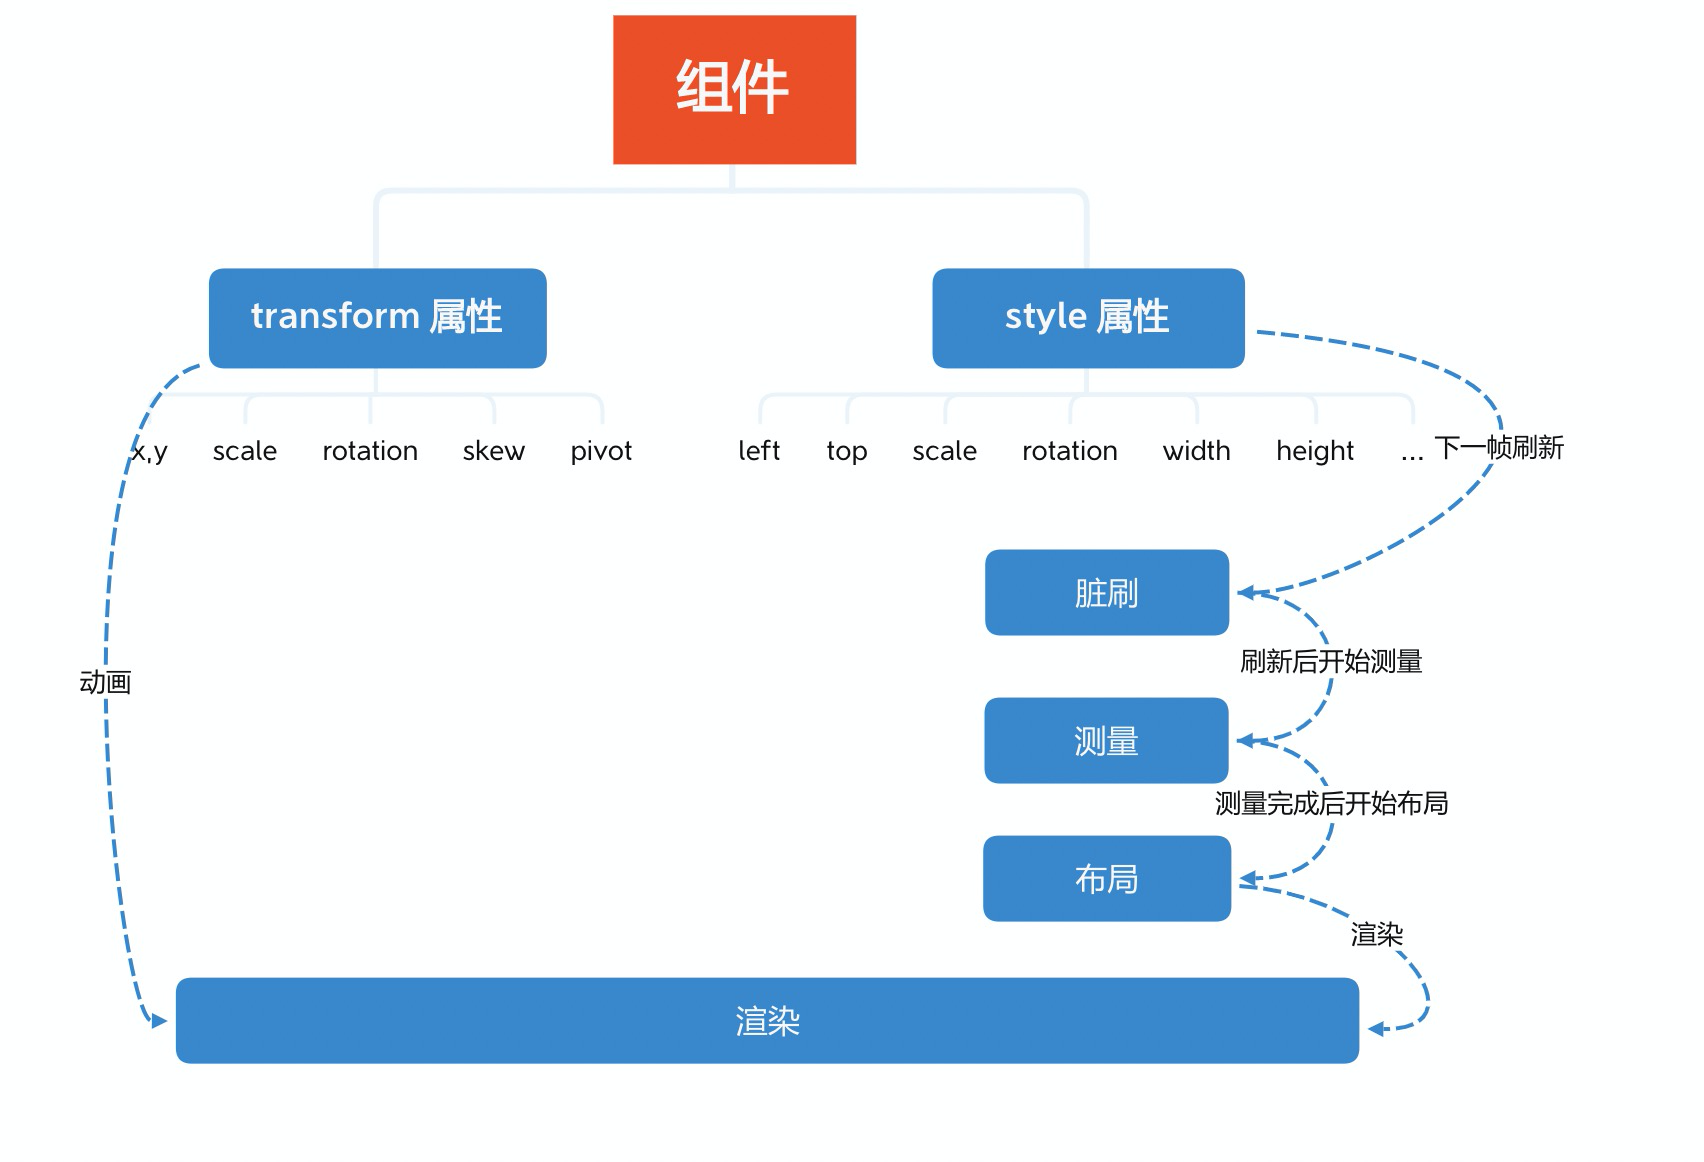
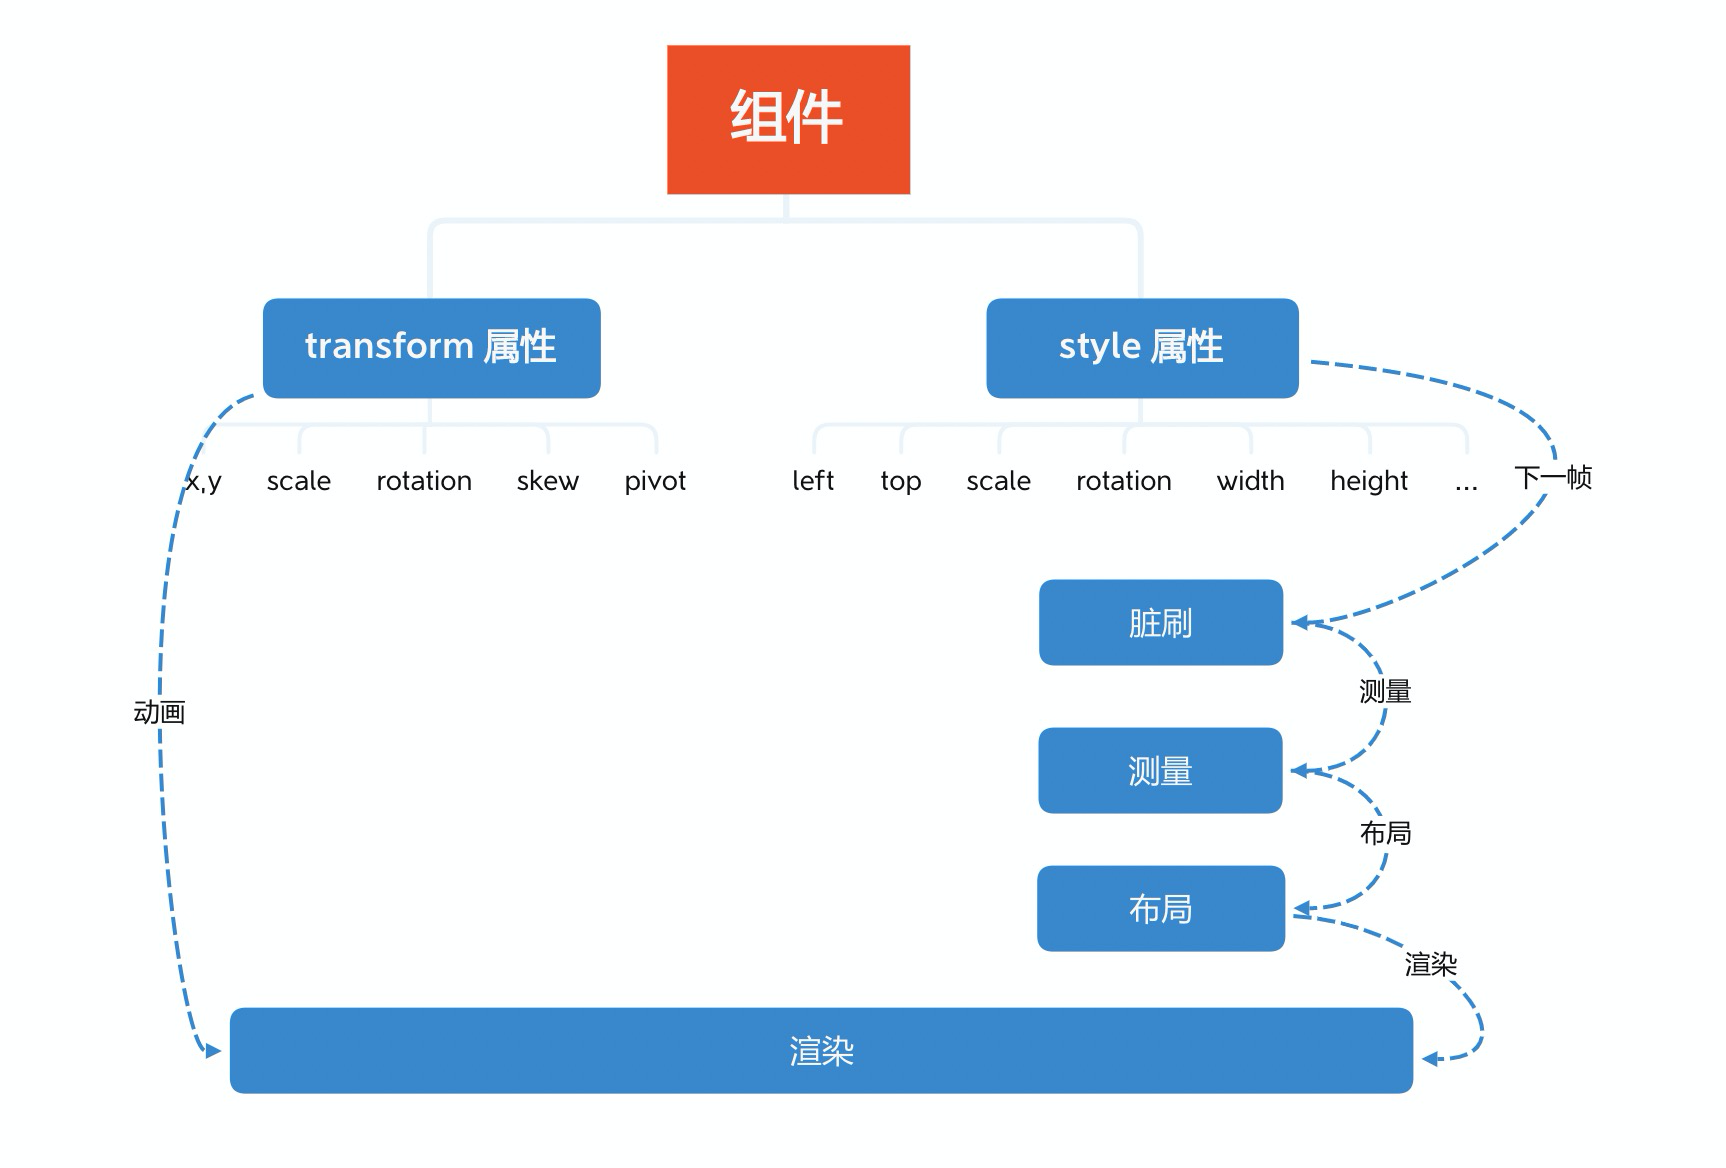
...

diff --git a/docs/questions/README.md b/docs/questions/README.md
@@ -12,3 +12,6 @@
 
 ## json中怎么绑定显示组件
 > 有些组件需要绑定显示组件，比如画线，可以通过设置其 source = 'this#child#child' 形式，source类型为字符串。
+
+## 常规的渲染流程
+![image](../assets/001.png)
